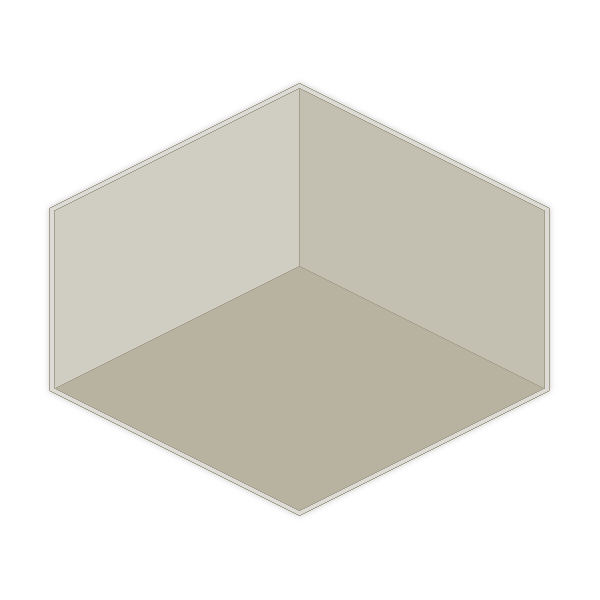
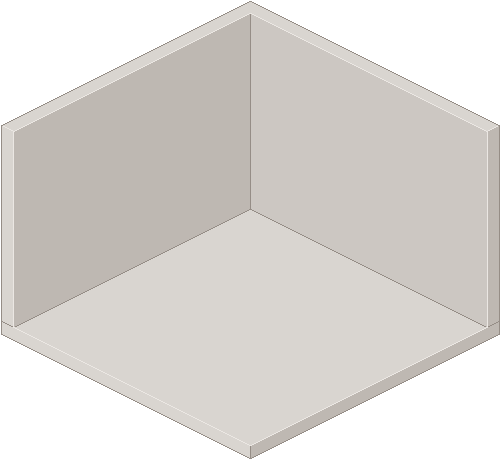
Fix list and tab of wall and floor

diff --git a/index.js b/index.js
@@ -9,6 +9,7 @@ let itemList;
 let itemData;
 let x = 0;
 let y = 0;
+const SCALE = 1.5;
 
 init();
 
@@ -50,8 +51,8 @@ function init() {
             }
 
             canvas.setBackgroundImage("./images/room.png", canvas.renderAll.bind(canvas), {
-                left: (canvas.width / 2 - 600 / 2),
-                top: (canvas.height / 2 - 600 / 1.8)
+                left: Math.floor(canvas.width / 2 - 500 / 2),
+                top: Math.floor(canvas.height / 2 - 460 / 2)
             });
 
             menuInit(itemTab);
@@ -67,9 +68,7 @@ function menuInit(itemTab) {
 }
 
 function clickedMoveTab({ target }) {
-    const SCALE = 1.5;
     if (target.nodeName === "BUTTON") {
-
         switch (target.id) {
             case "top-btn":
                 moveToPosition(x, y -= 50);
@@ -137,13 +136,14 @@ function clickedTab({ target }) {
 function clickedList({ target }) {
     if (target.classList.contains("background")) {
         display.style.backgroundColor = target.style.backgroundColor;
-    } else if (target.className === "item-img") {
+    } else if (target.dataset.category === "wall" || target.dataset.category === "floor") {
+        // multiple background image 로 검색해서 방법 찾기
+    } else {
         fabric.Image.fromURL(target.src, (img) => {
-            img.set({
+            canvas.add(img.set({
                 left: Math.floor(768 / 2 - img.width / 2),
                 top: Math.floor(768 / 2 - img.height / 2),
-            });
-            canvas.add(img);
+            }));
         });
         fabric.Object.prototype.hasControls = false;
         fabric.Object.prototype.hasBorders = false;
@@ -159,7 +159,8 @@ function itemListTemp(arguments) {
         return `
         <li class="list-item ${arguments.categoryName}" style="background-color: ${arguments.category.colorCode}"></li>
         `;
-    } else {
-        return `<li class="list-item ${arguments.categoryName}"><img class="item-img" src="${arguments.category.img}"></li>`;
+    }
+    else {
+        return `<li class="list-item ${arguments.categoryName}"><img class="item-img" src="${arguments.category.img}" data-category="${arguments.category.category}"></li>`;
     }
 }

diff --git a/style.css b/style.css
@@ -145,6 +145,16 @@ li {
     cursor: default;
 }
 
+.list-item.wall, .list-item.floor {
+    overflow: hidden;
+}
+.list-item.wall img {
+    transform: translateY(165px);
+}
+.list-item.floor img {
+    transform: translateY(-165px);
+}
+
 .hide {
     visibility: hidden;
 }
